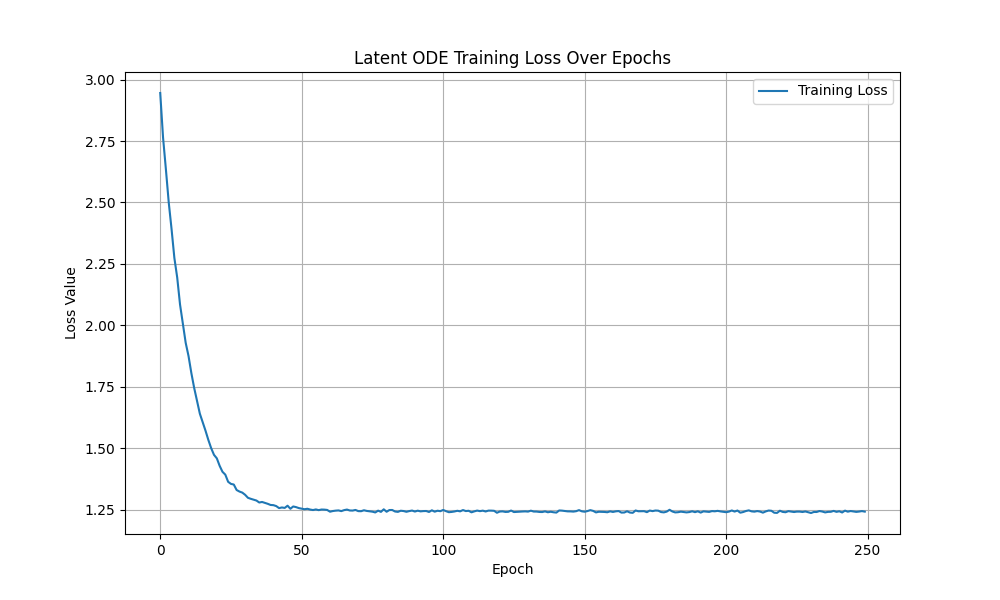
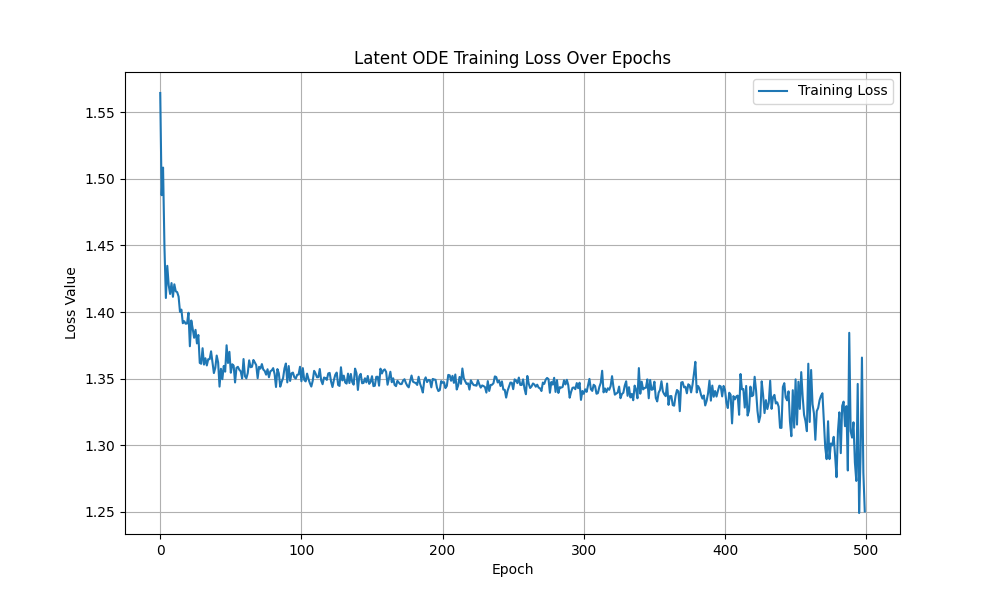
latent ode run #1 (500 epochs + KL_max = 1)

diff --git a/models/latent_ode.py b/models/latent_ode.py
@@ -137,7 +137,7 @@ def latent_ode_loss(predicted, target, z0_mean, z0_log_var, kl_weight=1.0):
 
     return total_loss, recon_loss, kl_loss
 
-def train_latent_ode(model, trajs, t, epochs=200, lr=0.001, kl_weight=1, device="cuda", file_name="latent_ode.pth"):
+def train_latent_ode(model, trajs, t, epochs=200, lr=0.001, kl_weight_start=0, kl_weight_end=0.01, device="cuda", file_name="latent_ode.pth"):
     optimizer = torch.optim.Adam(model.parameters(), lr=lr)
 
     #rearrange trajectories to be [batch, n, obs_dim]
@@ -147,9 +147,12 @@ def train_latent_ode(model, trajs, t, epochs=200, lr=0.001, kl_weight=1, device=
 
     model.train()
     for epoch in range(epochs):
+        #KL Annealing
+        kl_weight = kl_weight_start + (kl_weight_end - kl_weight_start) * min(epoch / (epochs * 0.5), 1.0)
+
         optimizer.zero_grad()
 
-        #forward pass
+        #forward pas
         predicted, z0_mean, z0_logvar = model(traj_batch, t, t)
 
         #compute loss
@@ -157,6 +160,7 @@ def train_latent_ode(model, trajs, t, epochs=200, lr=0.001, kl_weight=1, device=
 
         #backward pass
         total_loss.backward()
+        torch.nn.utils.clip_grad_norm_(model.parameters(), max_norm=1.0)
         optimizer.step()
 
         #Record losses 
@@ -168,7 +172,8 @@ def train_latent_ode(model, trajs, t, epochs=200, lr=0.001, kl_weight=1, device=
             print(f"Epoch {epoch+1}/{epochs} | "
                   f"Total: {total_loss.item():.6f} | "
                   f"Recon: {recon_loss.item():.6f} | "
-                  f"KL: {kl_loss.item():.6f}")
+                  f"KL: {kl_loss.item():.6f} | "
+                  f"KL Weight: {kl_weight:.6f}")
             
     script_path = os.path.abspath(__file__)
     script_dir = os.path.dirname(script_path)
@@ -306,7 +311,7 @@ if __name__ == "__main__":
     
     #Train
     print("\nTraining Latent ODE...")
-    losses = train_latent_ode(model, trajs, t, epochs=500, kl_weight=1, device=device)
+    losses = train_latent_ode(model, trajs, t, epochs=500, kl_weight_start=0, kl_weight_end=1, device=device)
     plot_loss(losses)
 
 
